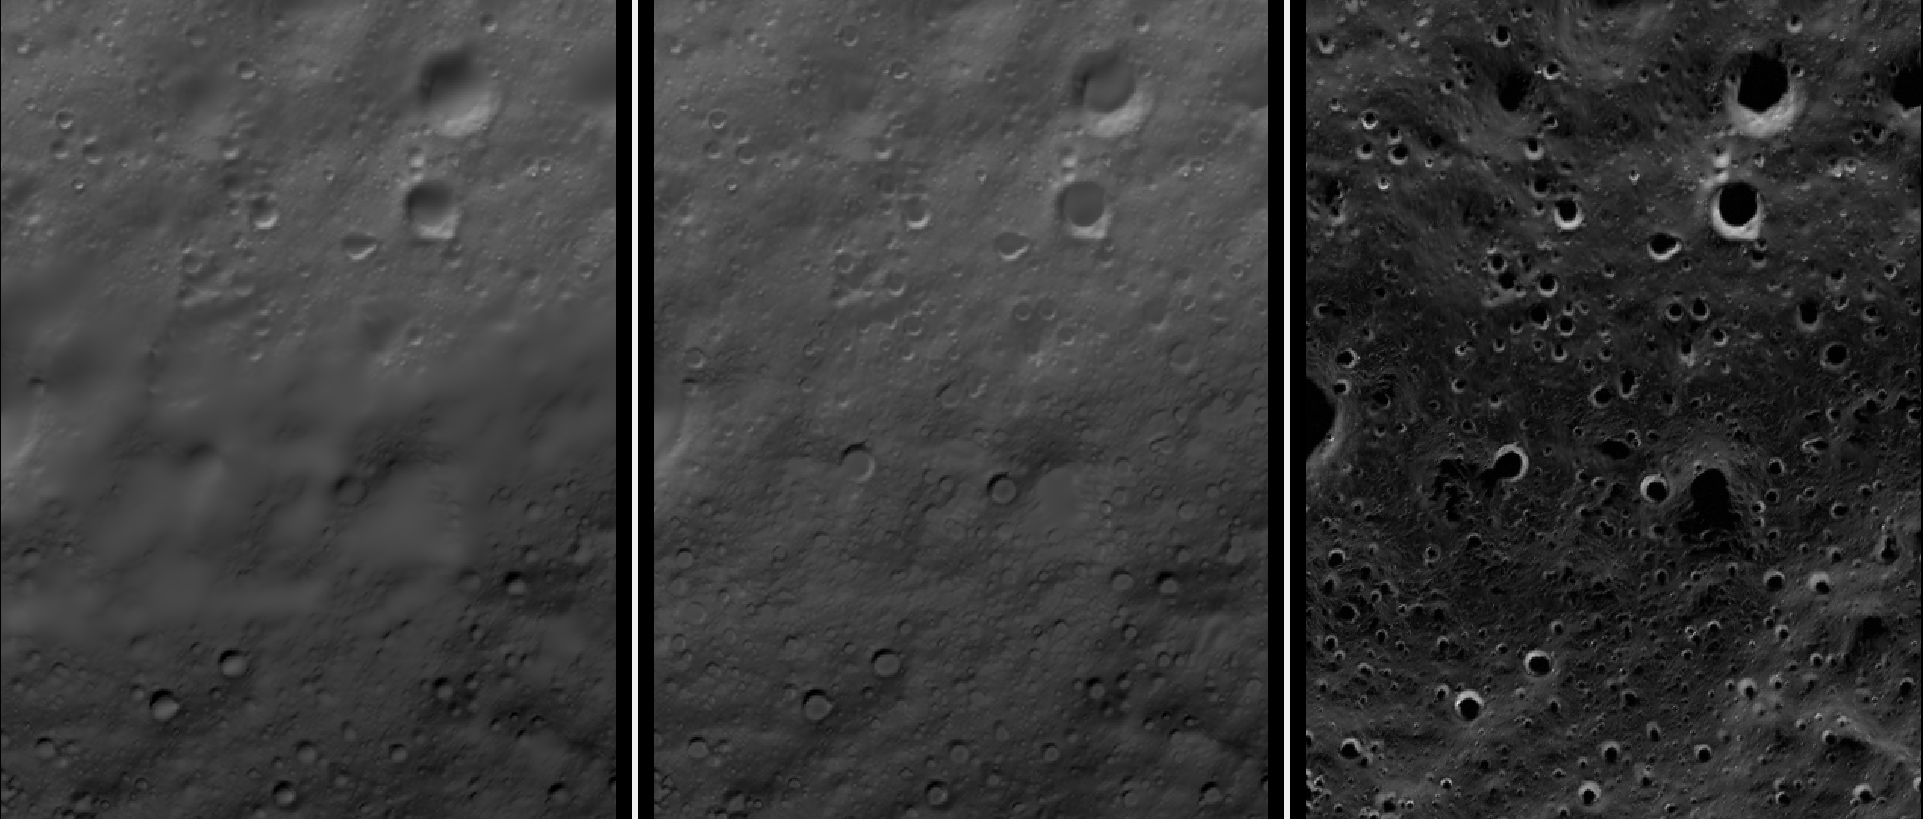
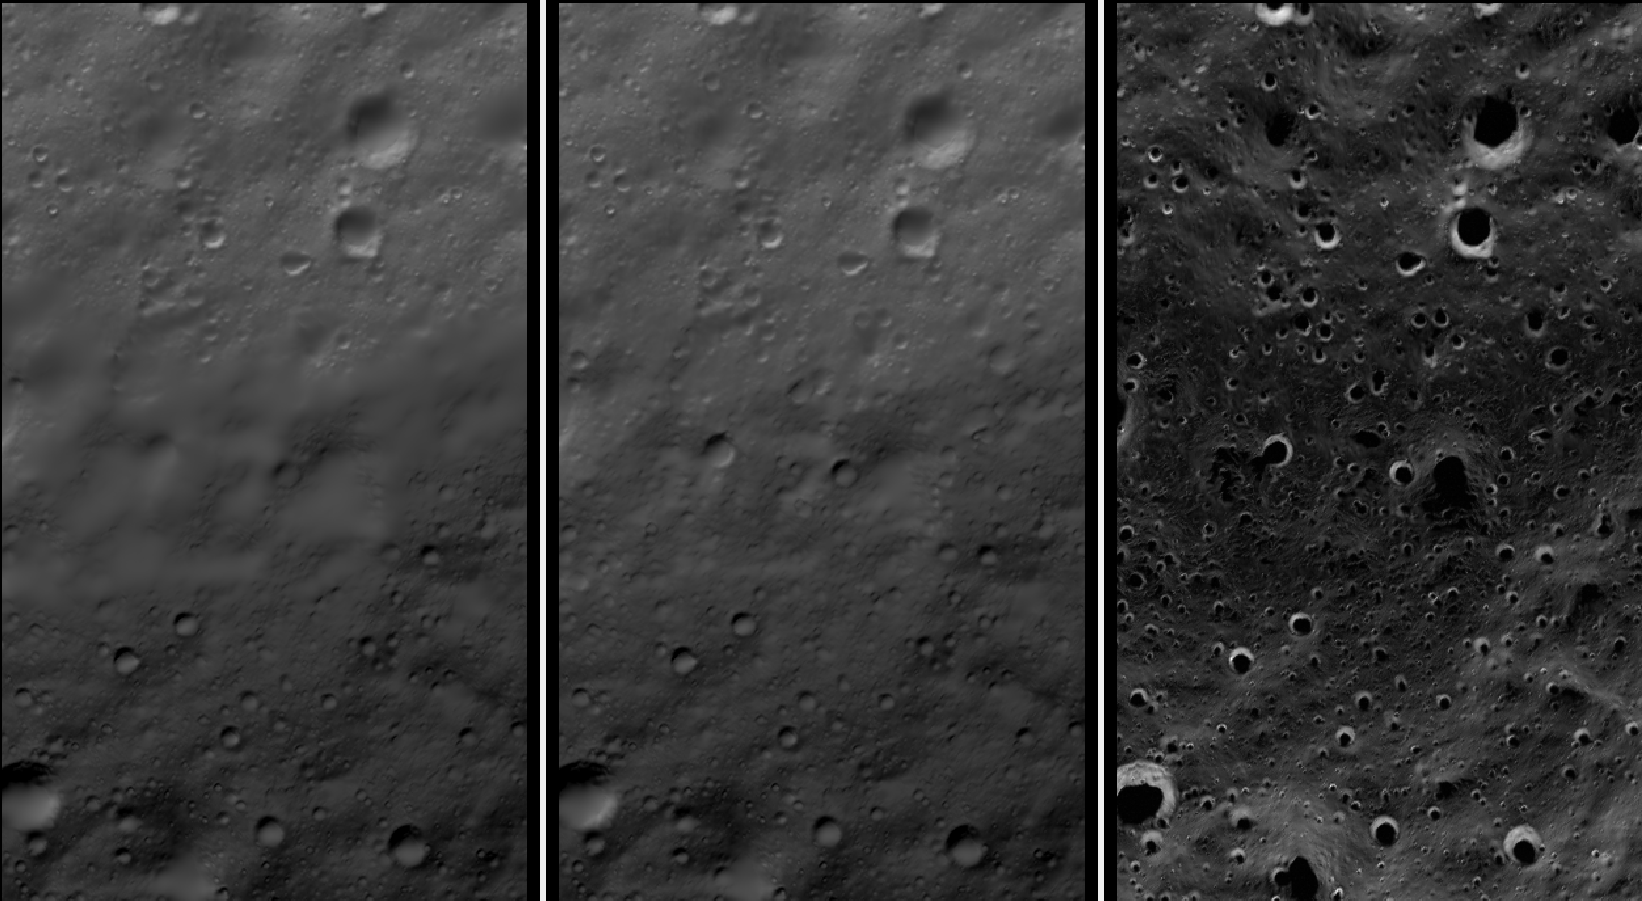
sfs: Update a figure and add another one. Link to LPSC poster.

diff --git a/docs/sfs_usage.rst b/docs/sfs_usage.rst
@@ -596,13 +596,16 @@ overestimate them somewhat.
 
 Then, we run ``sfs``::
 
-    sfs -i run_sub10/run-crop-DEM.tif A_crop_sub10.cub C_crop_sub10.cub \
-      D_crop_sub10.cub -o sfs_sub10_ref1/run --threads 4                \
-      --smoothness-weight 0.12 --initial-dem-constraint-weight 0.001    \
-      --reflectance-type 1 --use-approx-camera-models                   \
-      --max-iterations 5  --crop-input-images                           \
-      --bundle-adjust-prefix run_ba_sub10/run                           \
-      --blending-dist 10 --min-blend-size 20                            \
+    sfs -i run_sub10/run-crop-DEM.tif                    \
+      A_crop_sub10.cub C_crop_sub10.cub D_crop_sub10.cub \
+      -o sfs_sub10_ref1/run --threads 4                  \
+      --smoothness-weight 0.12                           \
+      --initial-dem-constraint-weight 0.001              \
+      --reflectance-type 1 --use-approx-camera-models    \
+      --max-iterations 5  --crop-input-images            \
+      --bundle-adjust-prefix run_ba_sub10/run            \
+      --blending-dist 10 --allow-borderline-data         \
+      --min-blend-size 20                                \
       --shadow-thresholds '0.00162484 0.0012166 0.000781663'
 
 It is suggested to not vary the cameras with ``sfs`` (option
@@ -650,6 +653,8 @@ otherwise the image will show as shifted from its true location::
 
     mapproject sfs_sub10_ref1/run-DEM-final.tif A_crop_sub10.cub   \
       A_crop_sub10_map.tif --bundle-adjust-prefix run_ba_sub10/run
+
+See :numref:`sfs-lola` for a large-scale example.
 
 .. _sfs_crater_bottoms:
 
@@ -719,18 +724,18 @@ Handling borderline areas
 With the option ``--allow-borderline-data``, ``sfs`` is able to do a
 better job at resolving the terrain in areas where the the
 illumination is weak and there are many shadows. In the example in
-:numref:`sfs_borderline_fig`, in some input images the top portion was lit,
-and in some the bottom portion. With this option, as it can be seen,
-the blur in the transition zone is removed. The craters are 
-still too shallow, but that is a known issue with weak illumination,
-and something to to be addressed at a future time.
+:numref:`sfs_borderline_fig`, in some input images the top terrain
+portion was lit, and in some the bottom portion. With this option, as
+it can be seen, the blur in the transition zone is removed. The
+craters are still too shallow, but that is a known issue with weak
+illumination, and something to to be addressed at a future time.
 
-Another paramter which can strongly affect the behavior close to shadows
+Another parameter which can strongly affect the behavior close to shadows
 is ``--blending-dist``. It should be set to 10 or so. A smaller value may 
 result in seams. 
 
-One may need to then use the ``sfs_blend`` tool (:numref:`sfs_blend`)
-to further tune the areas in permanent shadow after doing SfS.
+The tool ``sfs_blend`` tool (:numref:`sfs_blend`) can be used to tune
+the areas in permanent shadow after doing SfS.
 
 .. figure:: images/sfs_borderline.png
    :name: sfs_borderline_fig
@@ -738,24 +743,35 @@ to further tune the areas in permanent shadow after doing SfS.
 
    The SfS result without option ``--allow-borderline-data`` (left),
    with it (center), and the max-lit mosaic (right). It can be seen
-   in the max-lit mosaic that the illumination direction is quite
-   different in the top and bottom halves (which appear to be
-   separated by a horizontal ridge), which was causing issues
-   for the algorithm.
+   in the max-lit mosaic that the illumination direction (position of
+   lit crater rim) is quite different in the top and bottom halves
+   (which appear to be separated by a horizontal ridge), which was
+   causing issues for the algorithm.
 
 .. _sfs-lola:
 
 Large-scale SfS
 ---------------
 
-Challenges
-^^^^^^^^^^
-
 SfS has been run successfully on a site close to the Lunar South Pole,
 at around 85.5 degrees South. Its size was 14336 x 11008 pixels, at 1
 m/pixel. It used 814 LRO NAC images for bundle adjustment and 420 of
 those for SfS. The shadows on the ground were observed to make a full
-360 degree loop. A seamless terrain was created.
+360 degree loop. A seamless terrain was created (see the `LPSC
+poster <https://www.hou.usra.edu/meetings/lpsc2023/pdf/2377.pdf>`_).
+
+.. figure:: images/large_scale_sfs.png
+   :name: large_scale_sfs
+   :alt: A portion of a large scale SfS terrain.
+
+   A portion of a large-scale terrain produced with SfS showing a challenging
+   area with very diverse illumination around some permanently-shadowed
+   regions. Left: hillshaded SfS terrain. Right: max-lit mosaic. The
+   quality of the produced terrain gracefully degrades as illumination
+   gets worse.
+
+Challenges
+^^^^^^^^^^
 
 The challenges encountered were that the shadows were extensive and
 varied drastically from image to image, and some portions of the
@@ -1305,7 +1321,7 @@ Next, SfS follows::
       --bundle-adjust-prefix ba_align_ref/run \
       --use-approx-camera-models              \
       --crop-input-images                     \
-      --blending-dist 5                       \
+      --blending-dist 10                      \
       --min-blend-size 50                     \
       --allow-borderline-data                 \
       --threads 4                             \
@@ -1316,7 +1332,7 @@ Next, SfS follows::
       --save-sparingly                        \
       --tile-size 200                         \
       --padding 50                            \
-      --processes 20                          \
+      --processes 10                          \
       -o sfs/run
 
 For this step not all images need to be used, just a representative
@@ -1362,8 +1378,8 @@ to run SfS without this flag first and inspect the results.
 When it comes to selecting the number of nodes to use, it is good to
 notice how many tiles the ``parallel_sfs`` program produces (the tool
 prints that), as a process will be launched for each tile. Since above
-it is chosen to run 20 processes on each node, the number of nodes can
-be the number of tiles over 20, or perhaps half or a quarter of that,
+it is chosen to run 10 processes on each node, the number of nodes can
+be the number of tiles over 10, or perhaps half or a quarter of that,
 in which case it will take longer to run. One should examine
 how much memory these processes use and adjust this number
 accordingly.
@@ -1373,6 +1389,8 @@ producing flat crater bottoms where there is no illumination to guide
 the solver. See :numref:`sfs_borderline` for a very preliminary
 solution for how one can try to improve very low-lit areas (it only
 works on manually selected clips and 1-3 images for each clip).
+
+See an illustration of the produced terrain in :numref:`large_scale_sfs`.
 
 Inspection and further iterations
 ^^^^^^^^^^^^^^^^^^^^^^^^^^^^^^^^^

diff --git a/docs/tools/sfs.rst b/docs/tools/sfs.rst
@@ -223,7 +223,9 @@ Command-line options for sfs
 --blending-dist <integer (default: 0)>
     Give less weight to image pixels close to no-data or boundary
     values. Enabled only when crop-input-images is true, for
-    performance reasons. Blend over this many pixels.
+    performance reasons. Blend over this many pixels. See also
+    ``--blending-power``, ``--min-blend-size`` and
+    ``--allow-borderline-data``. See example in :numref:`sfs-lola`.
 
 --blending-power <double (default: 2.0)>
     Raise the blending weights (they are no more to 1.0) to this
